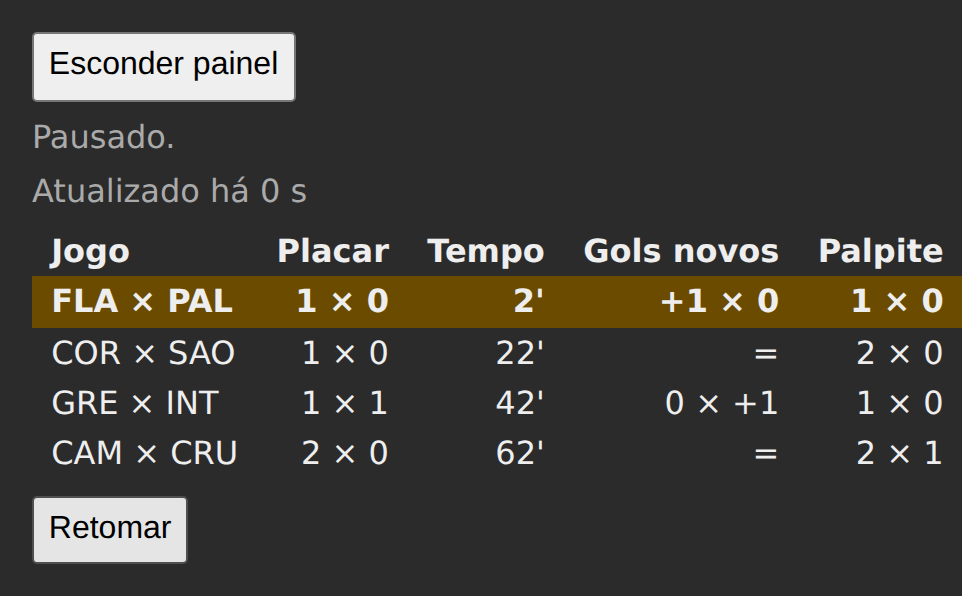
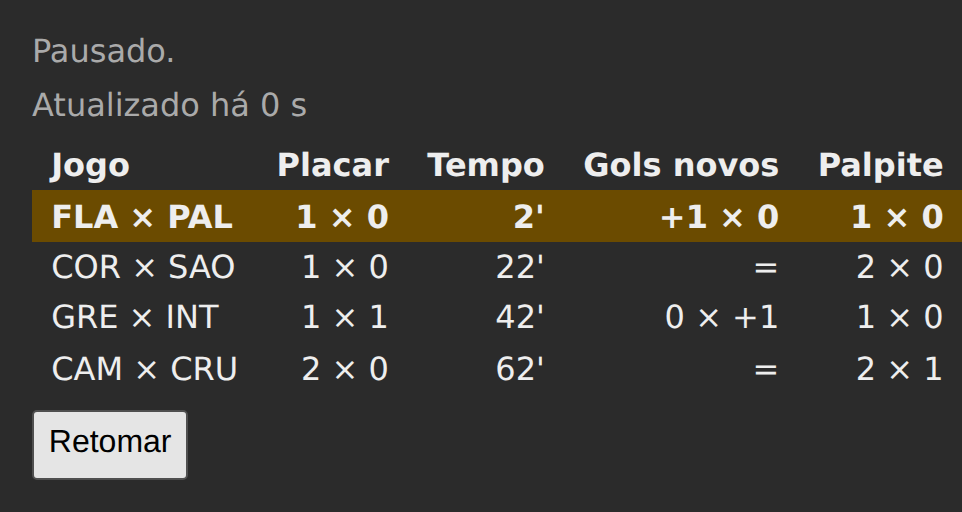
Hospeda o Placar ao vivo no Web Component pela página comum
O Placar ao vivo no Web Component ainda traz a página com o botão
"Esconder painel"/"Mostrar painel", um segundo elemento que só existe
para o teste de conformidade tirar o painel da página, e por isso falha
nas verificações de "Limpeza ao sair da tela", que desde "Confere a
limpeza ao sair da tela pela rota da página, sem botão" saem e voltam
pela rota do hash de implementacoes/pagina.ts (ADR 0043).

A página sai, e fica o par montar e desmontar no idioma da tecnologia: o
createElement e o append do painel no contêiner, e o remove(), que
dispara o disconnectedCallback. O index.html passa a trazer o
contêiner #raiz com a classe do layout, que a página montava. A limpeza
ao sair da tela, no disconnectedCallback, não muda: é o que se compara.

Conferido com npm run conformidade -- dados-ao-vivo/web-component (19
verificações ok) e com as capturas regeradas: as 3 cenas saem sem o
botão, e ficam diferentes das outras tecnologias do Placar ao vivo até o
commit de cada uma.

Changed region(s): [[0.0312, 0.2812, 1.0, 0.9688], [0.0312, 0.0312, 0.3119, 0.25]]

diff --git a/implementacoes/dados-ao-vivo/web-component/src/main.ts b/implementacoes/dados-ao-vivo/web-component/src/main.ts
@@ -10,6 +10,7 @@ import {
   noPalpite,
   type Lote,
 } from "../../dominio";
+import { hospedar } from "../../../pagina";
 import "../../estilo.css";
 
 const modelo = /* HTML */ `
@@ -139,37 +140,10 @@ class PainelDePlacares extends HTMLElement {
   }
 }
 
-// A página: o botão que tira o painel da página e o põe de volta.
-class DadosAoVivo extends HTMLElement {
-  private painel?: PainelDePlacares;
-
-  connectedCallback() {
-    this.innerHTML = /* HTML */ `
-      <main class="placares">
-        <button type="button" class="alternar">Esconder painel</button>
-      </main>
-    `;
-    const principal = this.querySelector("main")!;
-    const alternar = this.querySelector<HTMLButtonElement>(".alternar")!;
-    const mostrar = () => {
-      this.painel = document.createElement(
-        "painel-de-placares",
-      ) as PainelDePlacares;
-      principal.append(this.painel);
-      alternar.textContent = "Esconder painel";
-    };
-    alternar.addEventListener("click", () => {
-      if (this.painel) {
-        this.painel.remove();
-        this.painel = undefined;
-        alternar.textContent = "Mostrar painel";
-      } else {
-        mostrar();
-      }
-    });
-    mostrar();
-  }
-}
-
 customElements.define("painel-de-placares", PainelDePlacares);
-customElements.define("dados-ao-vivo", DadosAoVivo);
+
+hospedar((conteiner) => {
+  const painel = document.createElement("painel-de-placares");
+  conteiner.append(painel);
+  return () => painel.remove();
+});

diff --git a/implementacoes/dados-ao-vivo/web-component/index.html b/implementacoes/dados-ao-vivo/web-component/index.html
@@ -6,7 +6,7 @@
     <title>Dados ao vivo com Web Component</title>
   </head>
   <body>
-    <dados-ao-vivo></dados-ao-vivo>
+    <main id="raiz" class="placares"></main>
     <script type="module" src="/src/main.ts"></script>
   </body>
 </html>
